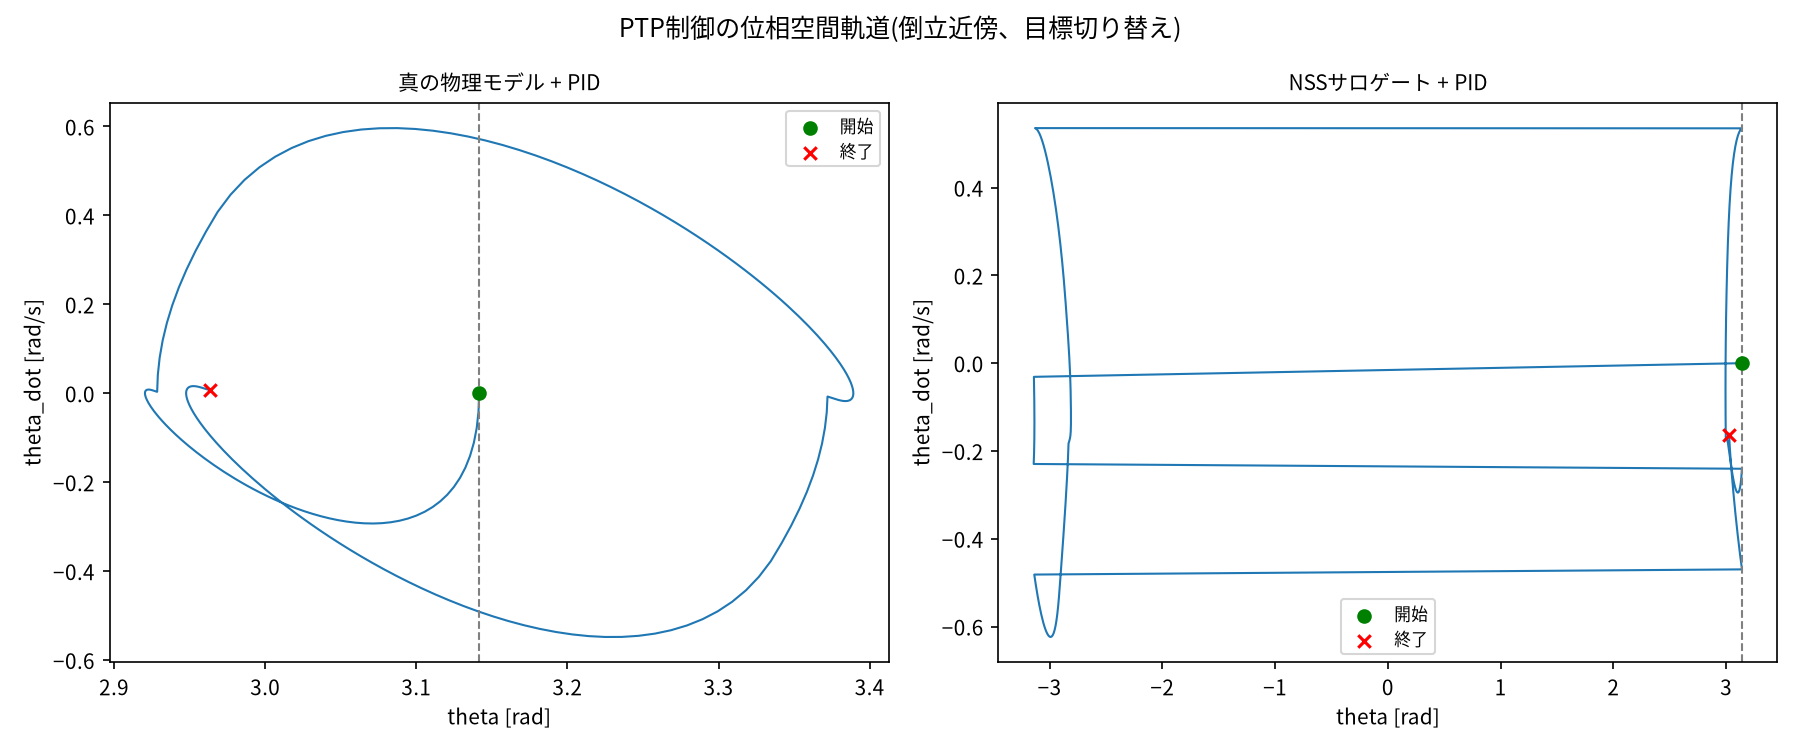
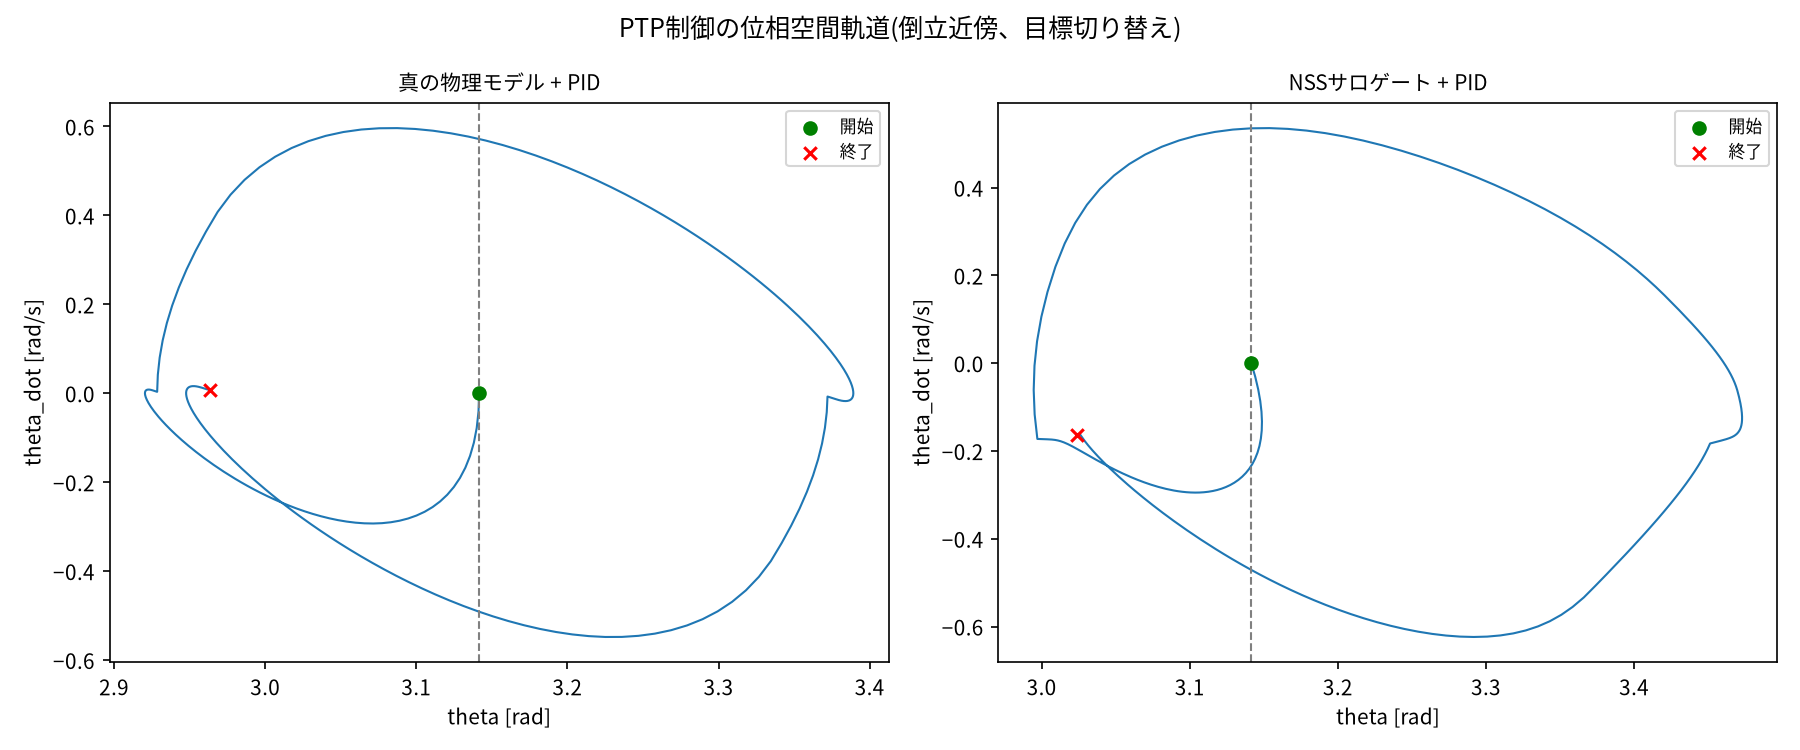
fix: PTPプロットのサロゲートθにnp.unwrapを適用しatan2ジャンプを解消
NSSモデルはステップごとにatan2でthetaをデコードするため、軌道が±πを
跨ぐと見た目上2πジャンプしていた(物理的には連続な同一角度)。プロット
専用にnp.unwrapで連続表現に直した。修正後、真値・サロゲートの軌道が
形状としてよく一致していることが視覚的にも明確になった。

Refs #11

Claude-Session: https://claude.ai/code/session_01Rvrf6mcbh1UrexApn66z2b

diff --git a/src/evaluate_ptp.py b/src/evaluate_ptp.py
@@ -52,12 +52,24 @@ def segment_final_errors(traj: np.ndarray, targets: list[float]) -> list[float]:
     return errors
 
 
+def unwrap_theta(traj: np.ndarray) -> np.ndarray:
+    """NSSモデルはステップごとにatan2でthetaをデコードするため、軌道が±πを
+    跨ぐと見た目上2πジャンプする(物理的には連続な同一角度)。プロット用に
+    np.unwrapで連続な表現に直す(角速度など他の量はwrapの影響を受けないため
+    theta列だけ置き換える)。
+    """
+    unwrapped = traj.copy()
+    unwrapped[:, 0] = np.unwrap(traj[:, 0])
+    return unwrapped
+
+
 def plot_trajectory(
     true_traj: np.ndarray, surrogate_traj: np.ndarray, target_seq: np.ndarray
 ) -> None:
     n_steps = len(target_seq)
     t = np.arange(n_steps + 1) * DT
     target_plot = np.concatenate([[target_seq[0]], target_seq])
+    surrogate_traj = unwrap_theta(surrogate_traj)
 
     plt.figure(figsize=(8, 4.5))
     plt.plot(t, target_plot, color="gray", linestyle="--", label="目標角度")
@@ -74,6 +86,8 @@ def plot_trajectory(
 
 
 def plot_phase_portrait(true_traj: np.ndarray, surrogate_traj: np.ndarray) -> None:
+    surrogate_traj = unwrap_theta(surrogate_traj)
+
     fig, axes = plt.subplots(1, 2, figsize=(12, 5))
     for ax, (label, traj) in zip(
         axes, [("真の物理モデル + PID", true_traj), ("NSSサロゲート + PID", surrogate_traj)]
